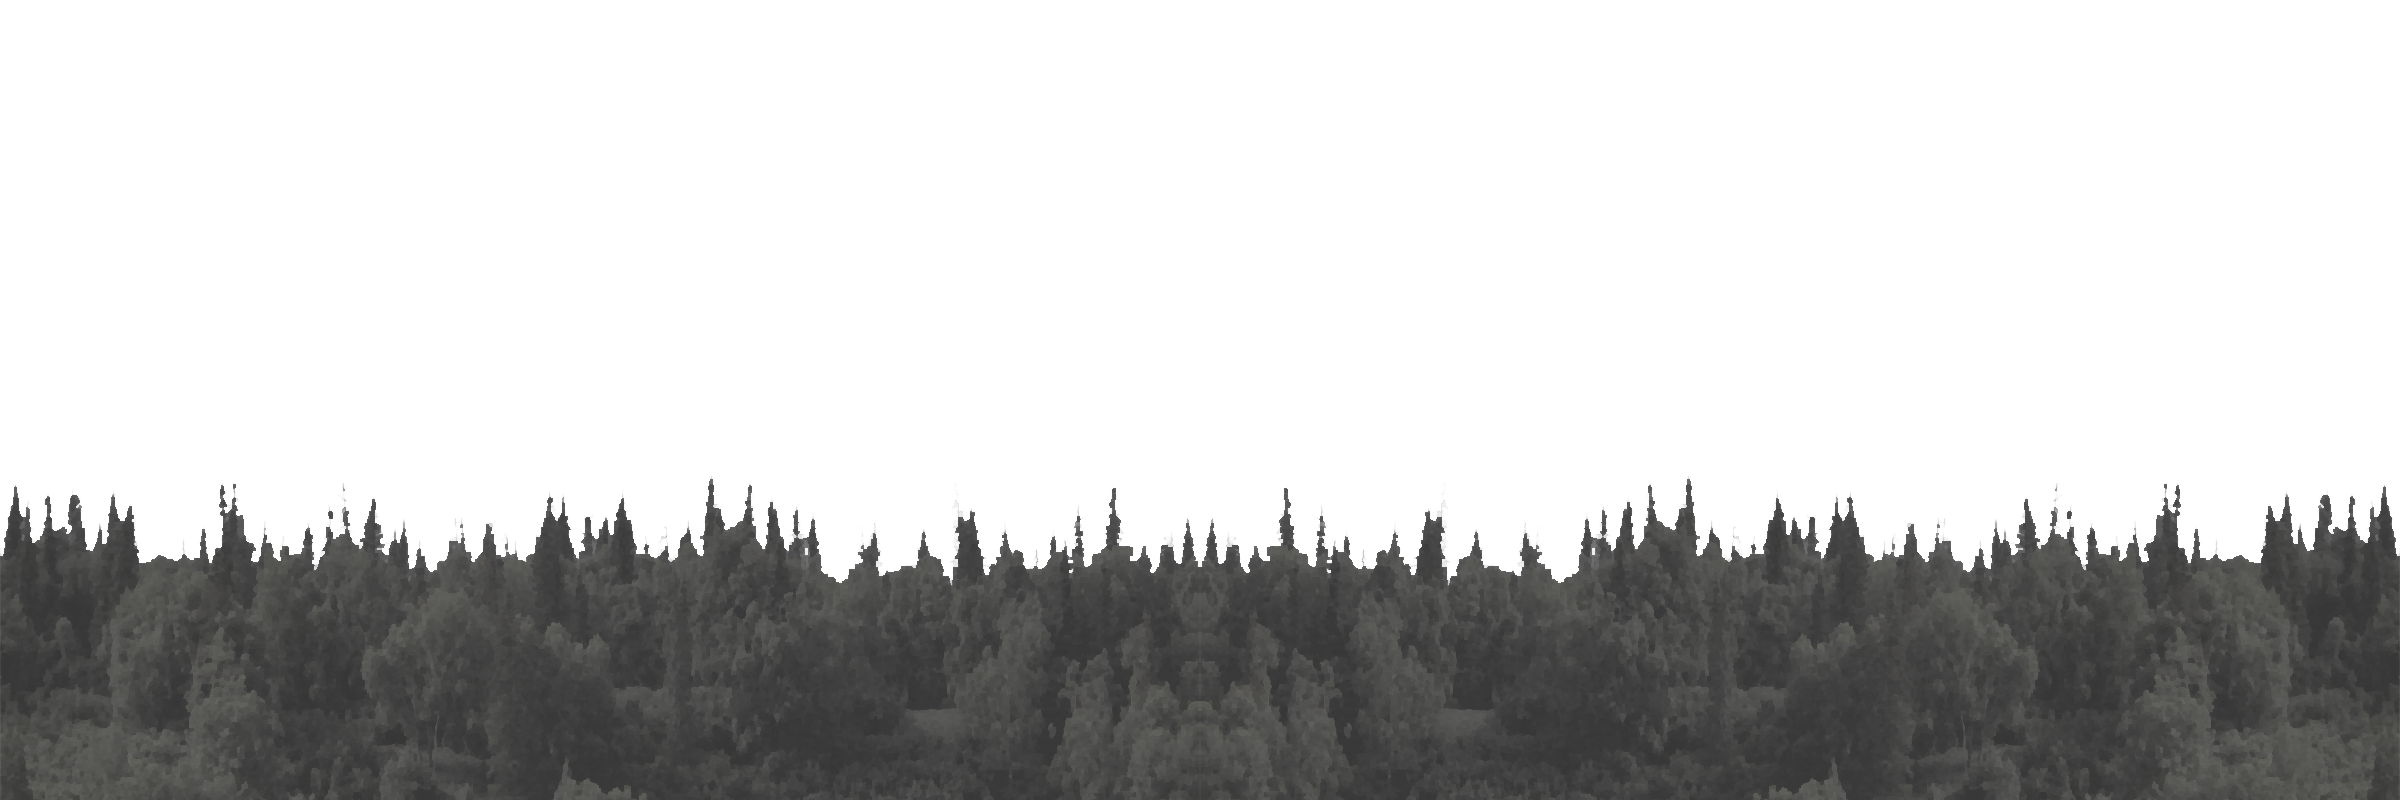
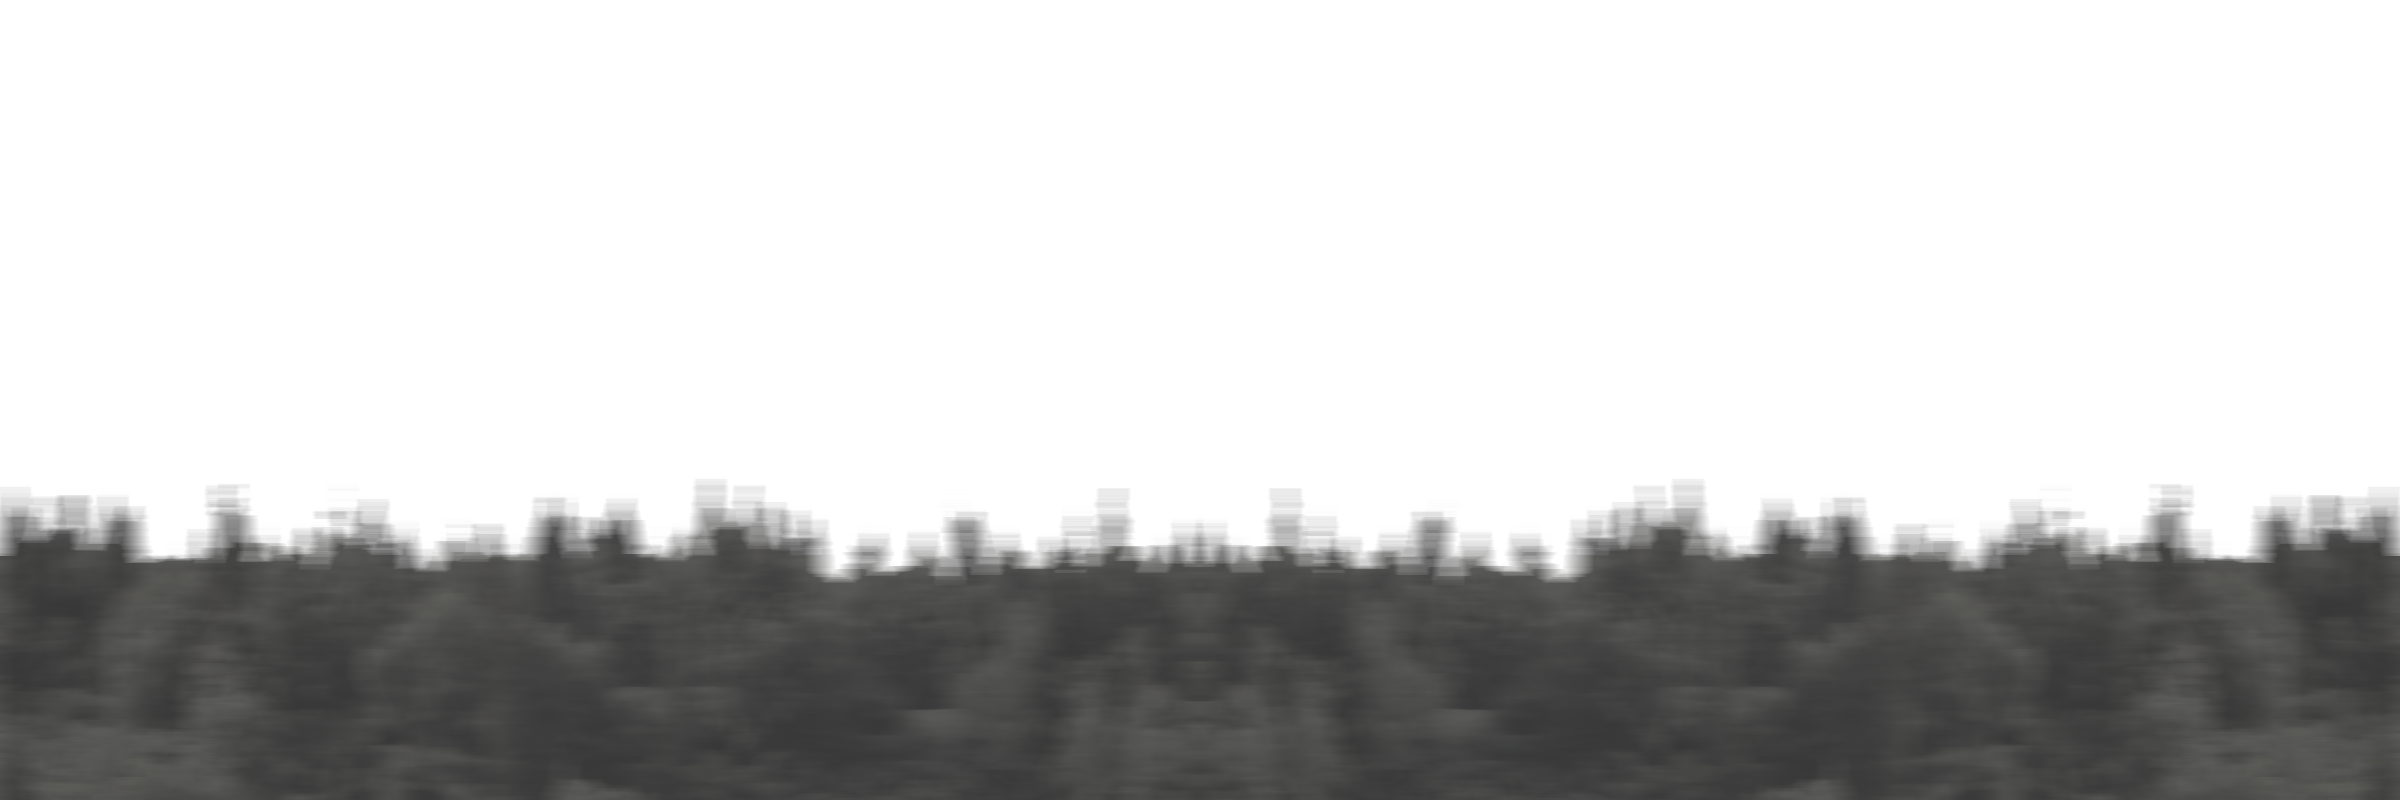
BackGround Machanism update

Changed region(s): [[0.0, 0.5938, 1.0, 0.75]]

diff --git a/[Project]ELEM/BackGround.py b/[Project]ELEM/BackGround.py
@@ -14,15 +14,16 @@ class BackGround:
 
 class BKStage1(BackGround):
     def __init__(self):
+        self.switch_uptosky = False
         self.spd_back_1_1 = 7
         self.y_spd_back_1_1 = 20
         self.y_spdr_back_1_1 = 0.14
-        self.spd_back_1_1_2 = 9
-        self.spd_back_1_1_3 = 8
-        self.spd_back_1_2 = 4
-        self.spd_back_1_3 = 3
-        self.spd_back_1_4 = 2
-        self.spd_back_1_5 = 1
+        self.spd_back_1_1_2 = 14
+        self.spd_back_1_1_3 = 12
+        self.spd_back_1_2 = 8
+        self.spd_back_1_3 = 6
+        self.spd_back_1_4 = 4
+        self.spd_back_1_5 = 2
 
         self.x_back_1_1 = FrameWork.CLIENT_WIDTH
         self.y_back_1_1 = 0
@@ -51,17 +52,19 @@ class BKStage1(BackGround):
 
     def update(self):
         self.x_back_1_1 = (self.x_back_1_1 - self.spd_back_1_1) % FrameWork.CLIENT_WIDTH
-        self.y_back_1_1 -= self.y_spd_back_1_1
         self.x_back_1_1_2 = (self.x_back_1_1_2 - self.spd_back_1_1_2) % (FrameWork.CLIENT_WIDTH*2)
         self.x_back_1_1_3 = (self.x_back_1_1_3 - self.spd_back_1_1_3) % (FrameWork.CLIENT_WIDTH*2)
         self.x_back_1_2 = (self.x_back_1_2 - self.spd_back_1_2) % FrameWork.CLIENT_WIDTH
         self.x_back_1_3 = (self.x_back_1_3 - self.spd_back_1_3) % (FrameWork.CLIENT_WIDTH*2)
         self.x_back_1_4 = (self.x_back_1_4 - self.spd_back_1_4) % (FrameWork.CLIENT_WIDTH*2)
         self.x_back_1_5 = (self.x_back_1_5 - self.spd_back_1_5) % (FrameWork.CLIENT_WIDTH*2)
-        if self.y_spd_back_1_1 >= 0:
-            self.y_spd_back_1_1 -= self.y_spdr_back_1_1
-            if self.y_spd_back_1_1 < 0:
-                self.y_spd_back_1_1 = 0
+        if self.switch_uptosky is True:
+            self.y_back_1_1 -= self.y_spd_back_1_1
+            self.spd_back_1_1 = 24
+            if self.y_spd_back_1_1 >= 0:
+                self.y_spd_back_1_1 -= self.y_spdr_back_1_1
+                if self.y_spd_back_1_1 < 0:
+                    self.y_spd_back_1_1 = 0
     def draw(self):
 
         self.spr_back_1_5.clip_draw_to_origin(

diff --git a/[Project]ELEM/Scene_MainGame.py b/[Project]ELEM/Scene_MainGame.py
@@ -47,6 +47,8 @@ def handle_events():
             FrameWork.quit()
         elif (event.type, event.key) == (SDL_KEYDOWN, SDLK_q):
             GameManager.Player_Power += 1
+        elif (event.type, event.key) == (SDL_KEYDOWN, SDLK_e):
+            GameManager.background.switch_uptosky = True
         else:
             GameManager.Player.handle_chara(event)
 

diff --git a/[Project]ELEM/Scene_Logo.py b/[Project]ELEM/Scene_Logo.py
@@ -1,6 +1,7 @@
 from pico2d import *
 import FrameWork
 import Scene_Title
+import BackGround
 
 name = "LogoState"
 image = None
@@ -9,6 +10,7 @@ logo_time = 0.0
 def enter():
     global image
     open_canvas(1200, 800)
+    bk = BackGround.BKStage1()
     image = load_image('Resources/Images/BackGrounds/Main/Logo.png')
 
 

diff --git a/[Project]ELEM/main.py b/[Project]ELEM/main.py
@@ -1,4 +1,5 @@
 import FrameWork
 import Scene_Logo
 
+
 FrameWork.run(Scene_Logo)
